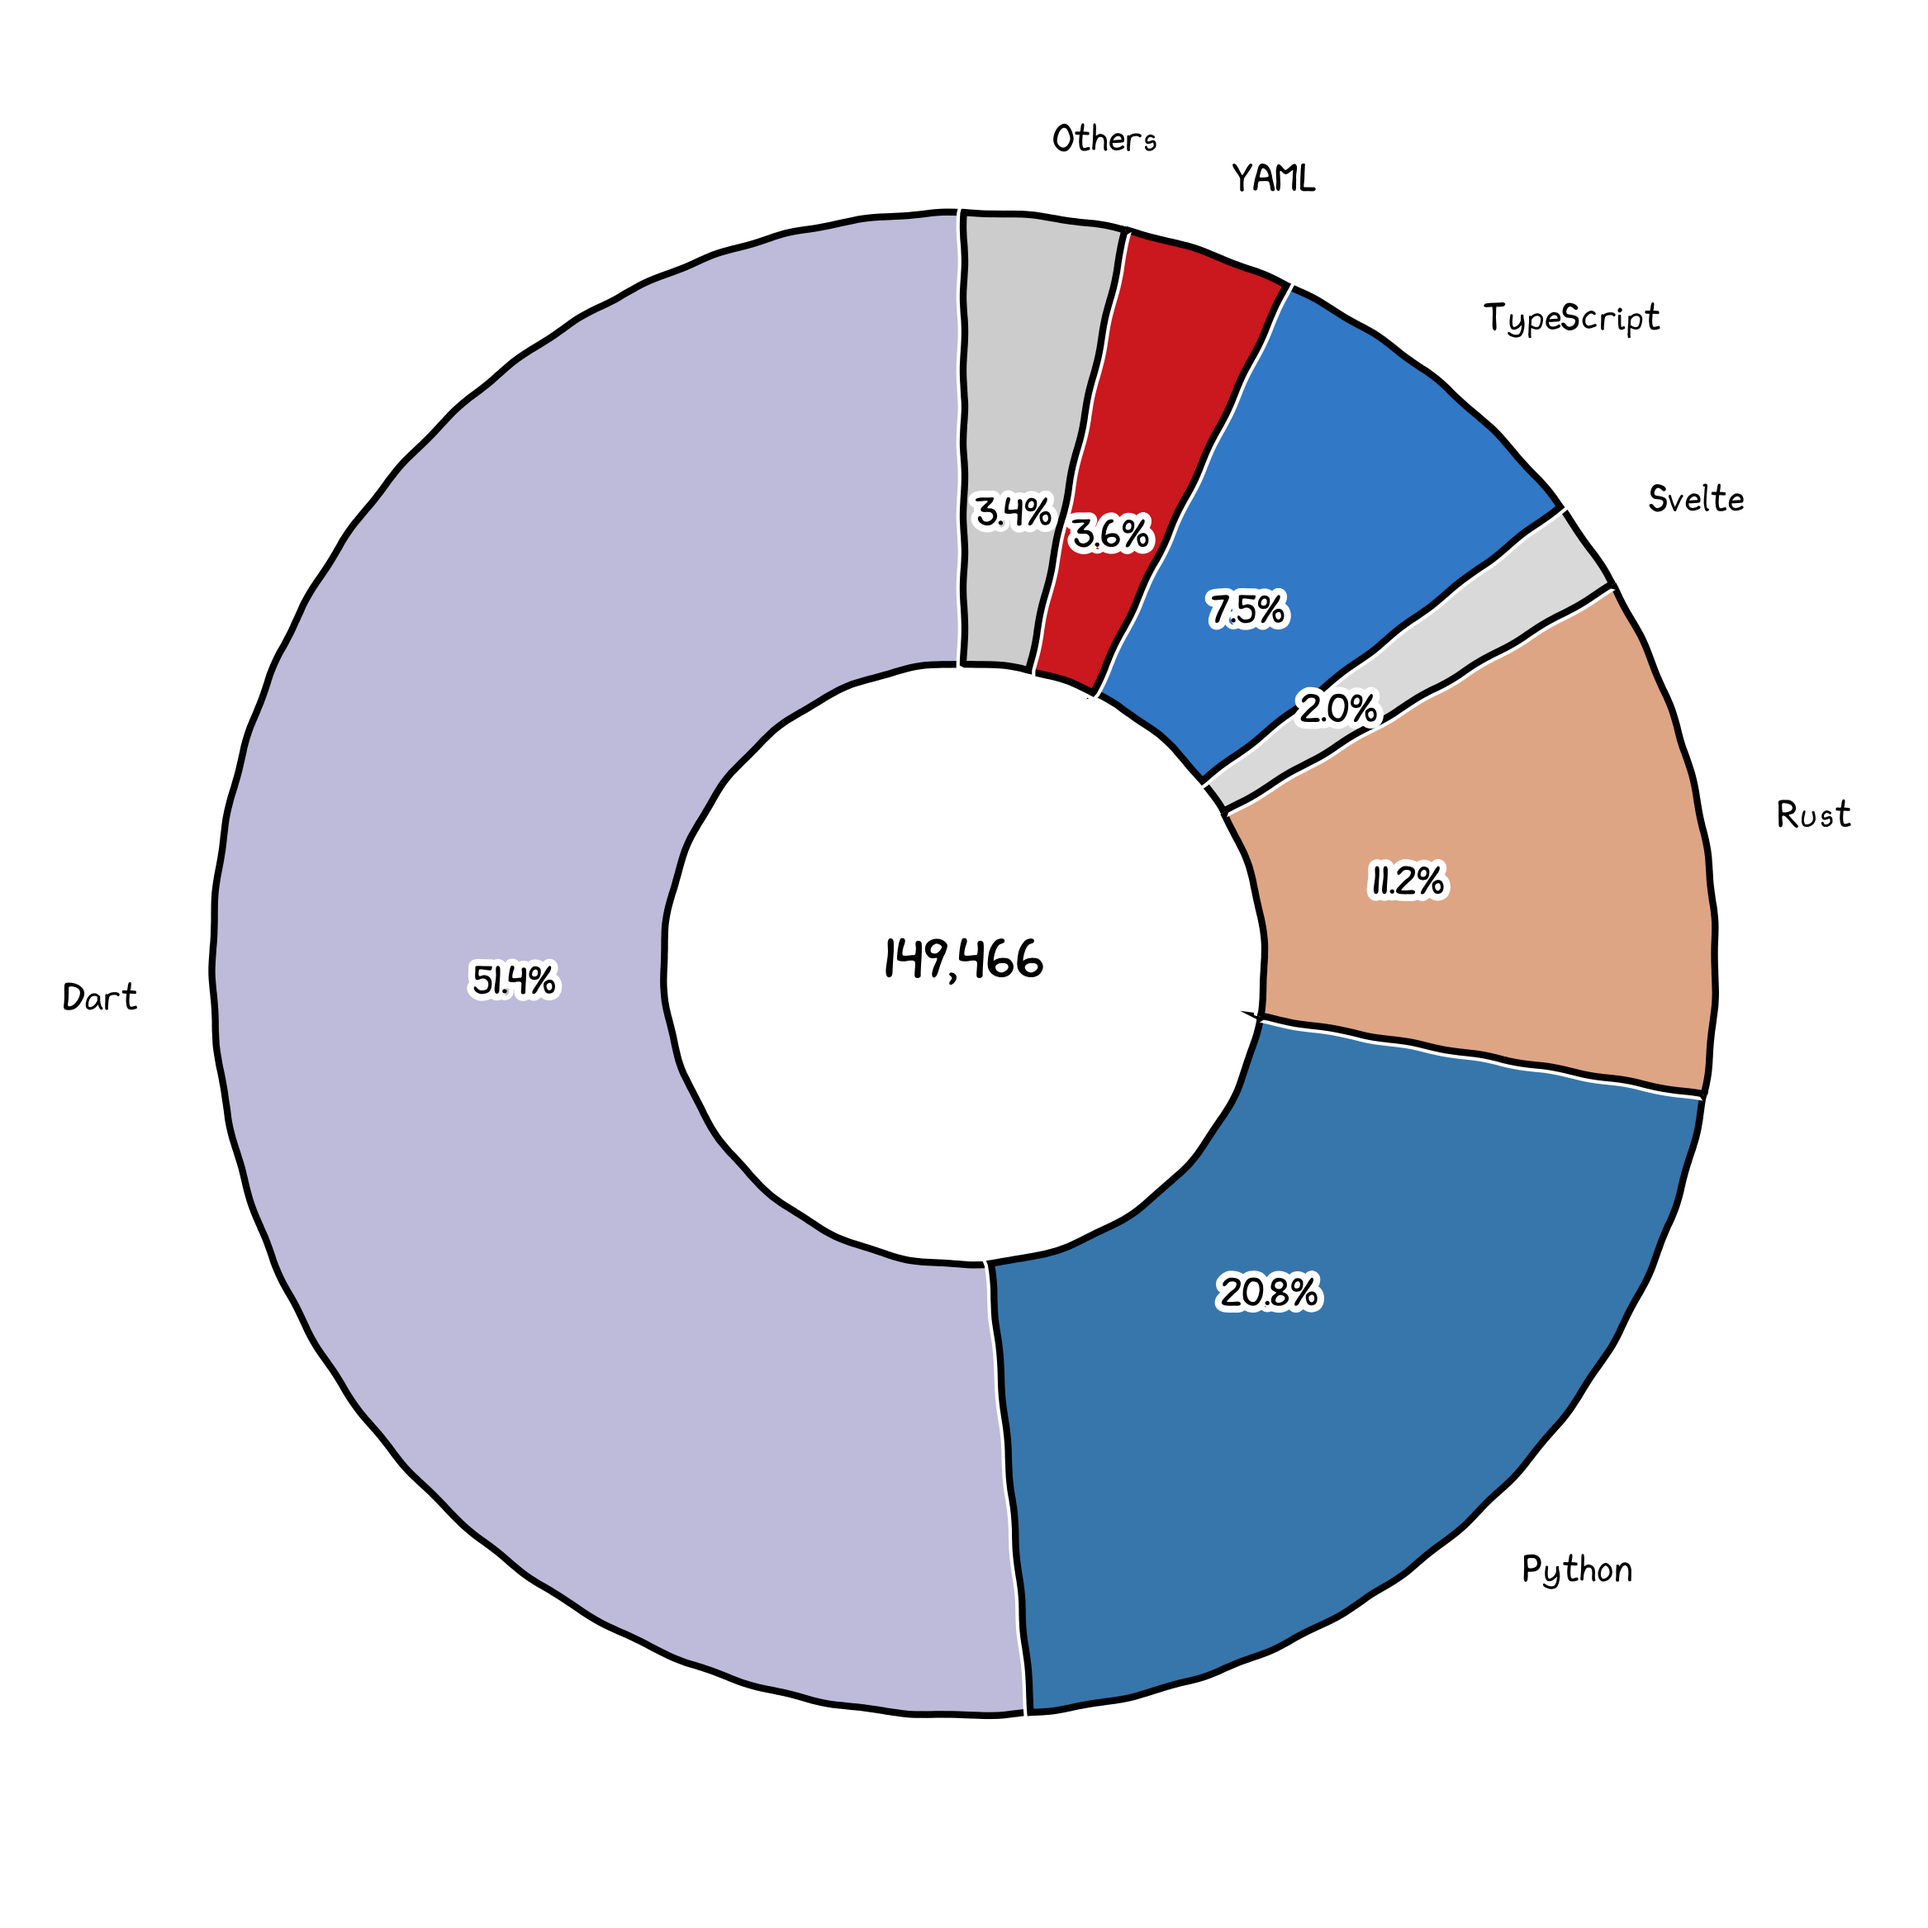
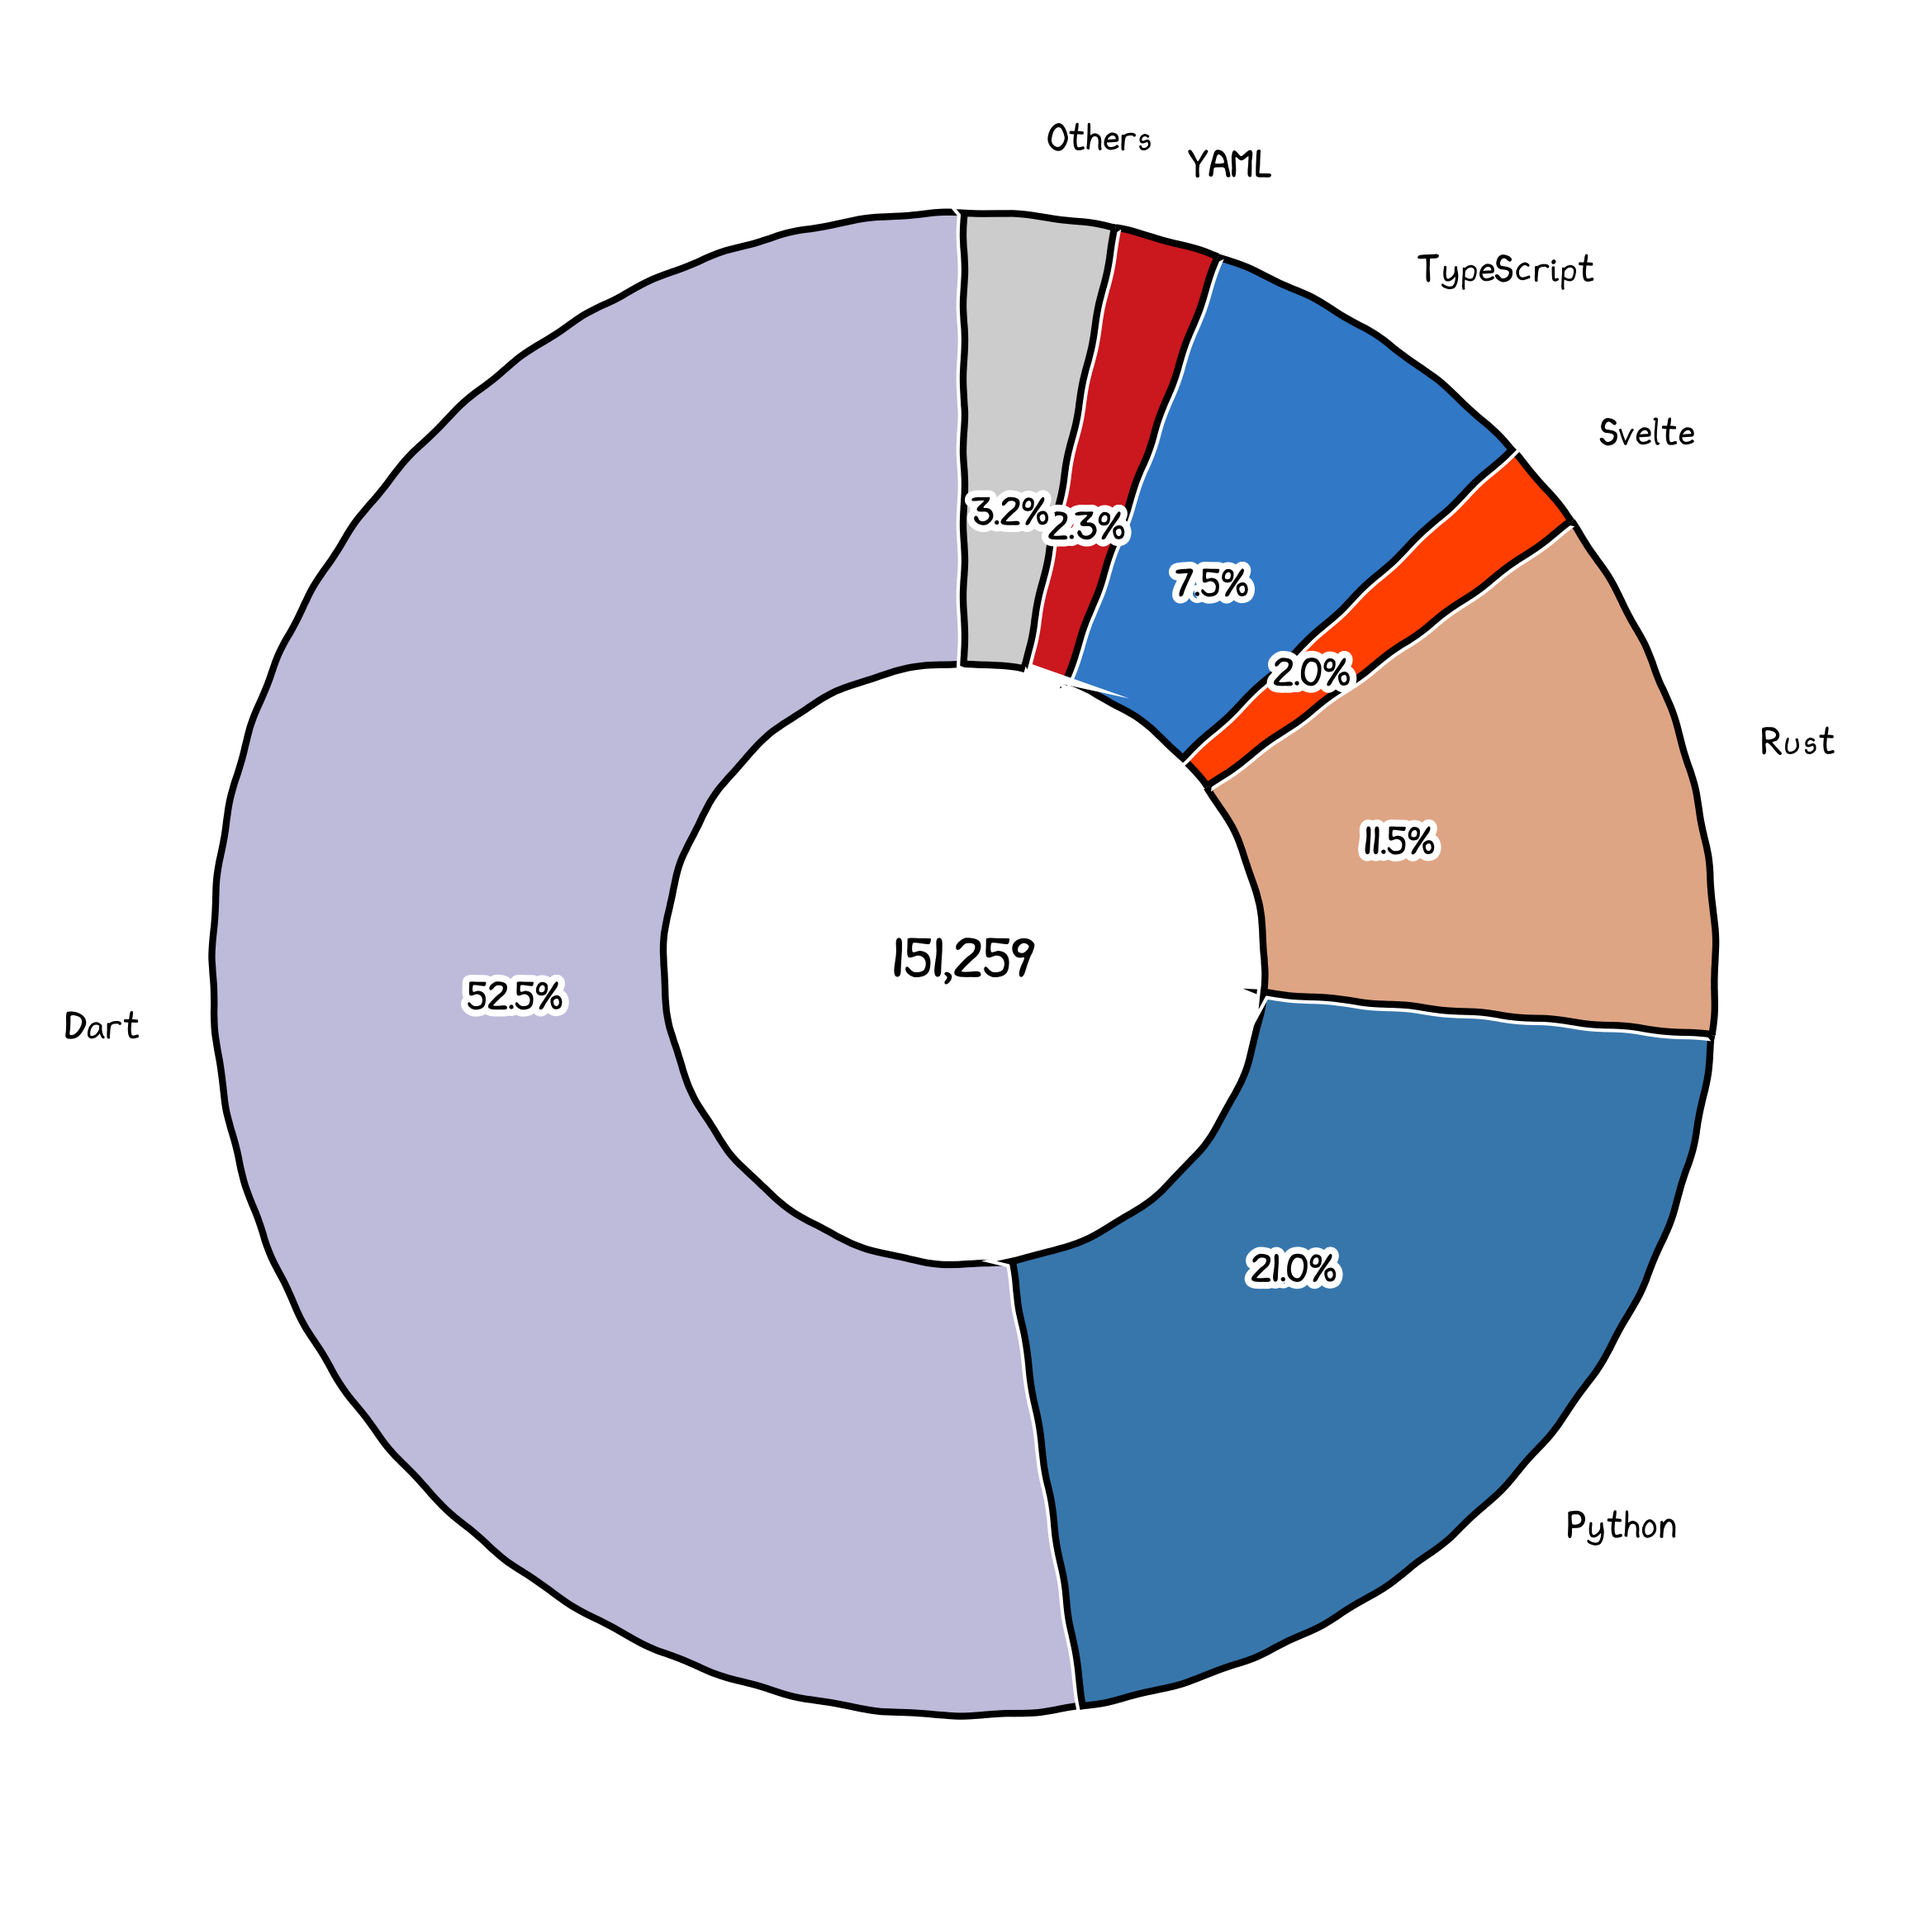
chore: update tokei config (#463)

diff --git a/bootstrap/etc/codeart.py b/bootstrap/etc/codeart.py
@@ -41,6 +41,7 @@ def _get_language_colors() -> dict[str, str]:
         "PHP": "#777bb4",
         "Ruby": "#cc342d",
         "Swift": "#fa7343",
+        "Svelte": "#ff3e00",
         "Kotlin": "#7f52ff",
         "HTML": "#e34f26",
         "CSS": "#1572b6",
